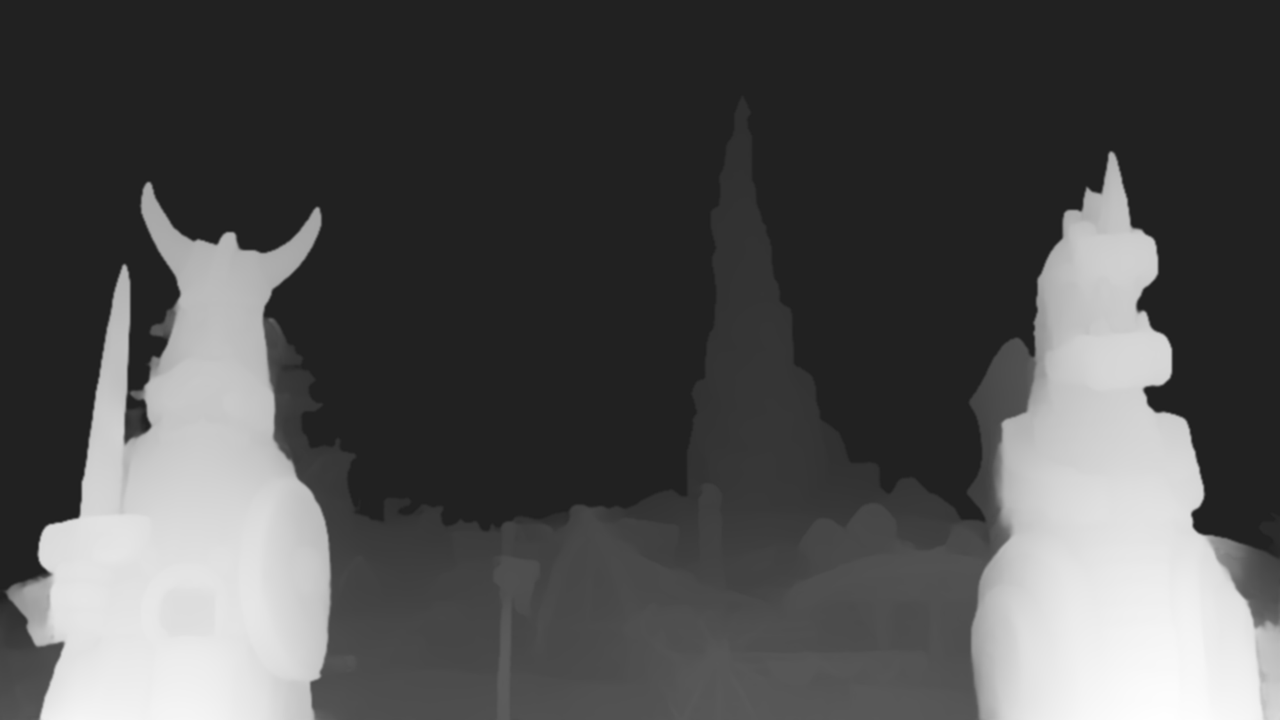
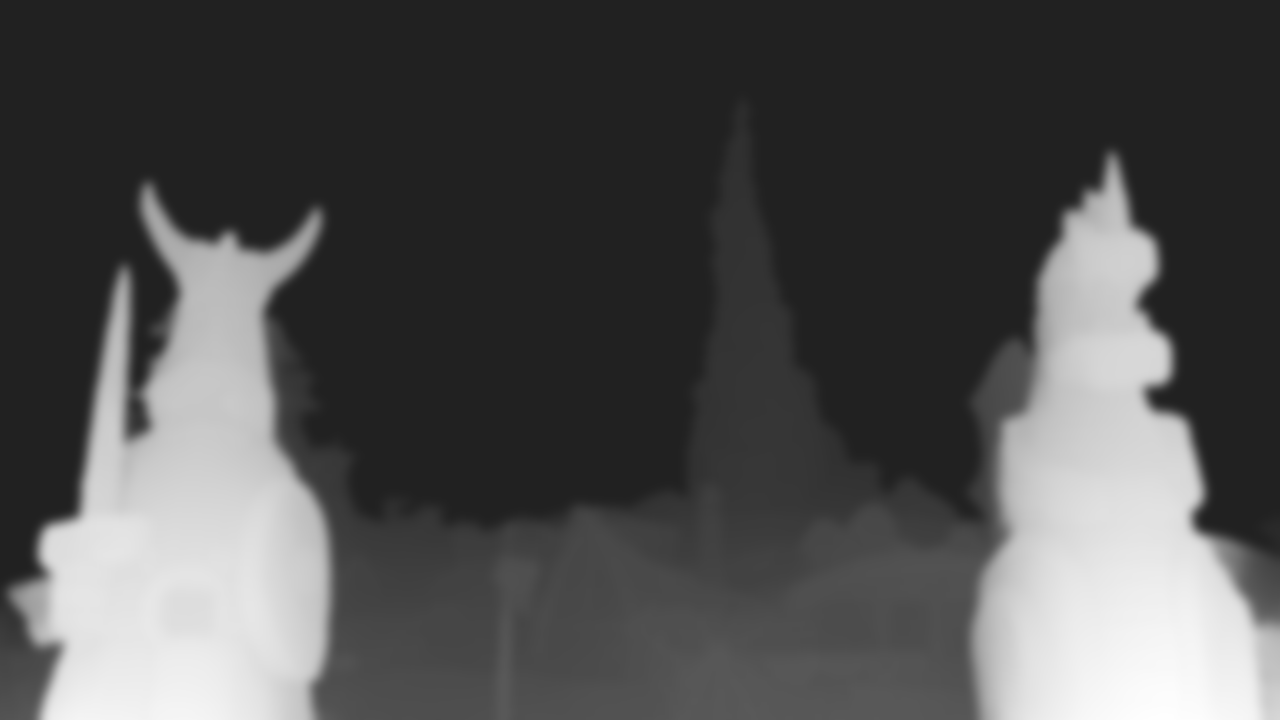
fix(landing): soften depth map + reduce pointer amplitude so depth parallax doesn't tear statue edges

diff --git a/tools/make-depth-map.py b/tools/make-depth-map.py
@@ -49,7 +49,7 @@ def main():
     dimg = Image.fromarray((d * 255).astype(np.uint8))
     dw = args.depth
     dimg = dimg.resize((dw, round(dimg.height * dw / dimg.width)), Image.LANCZOS)
-    dimg = dimg.filter(ImageFilter.GaussianBlur(1))  # soften so displacement reads smooth
+    dimg = dimg.filter(ImageFilter.GaussianBlur(5))  # soften depth cliffs so the shader warps gradually instead of tearing at edges
     dimg.save(out + "depth.png")
 
     for f in ("scene.jpg", "depth.png"):